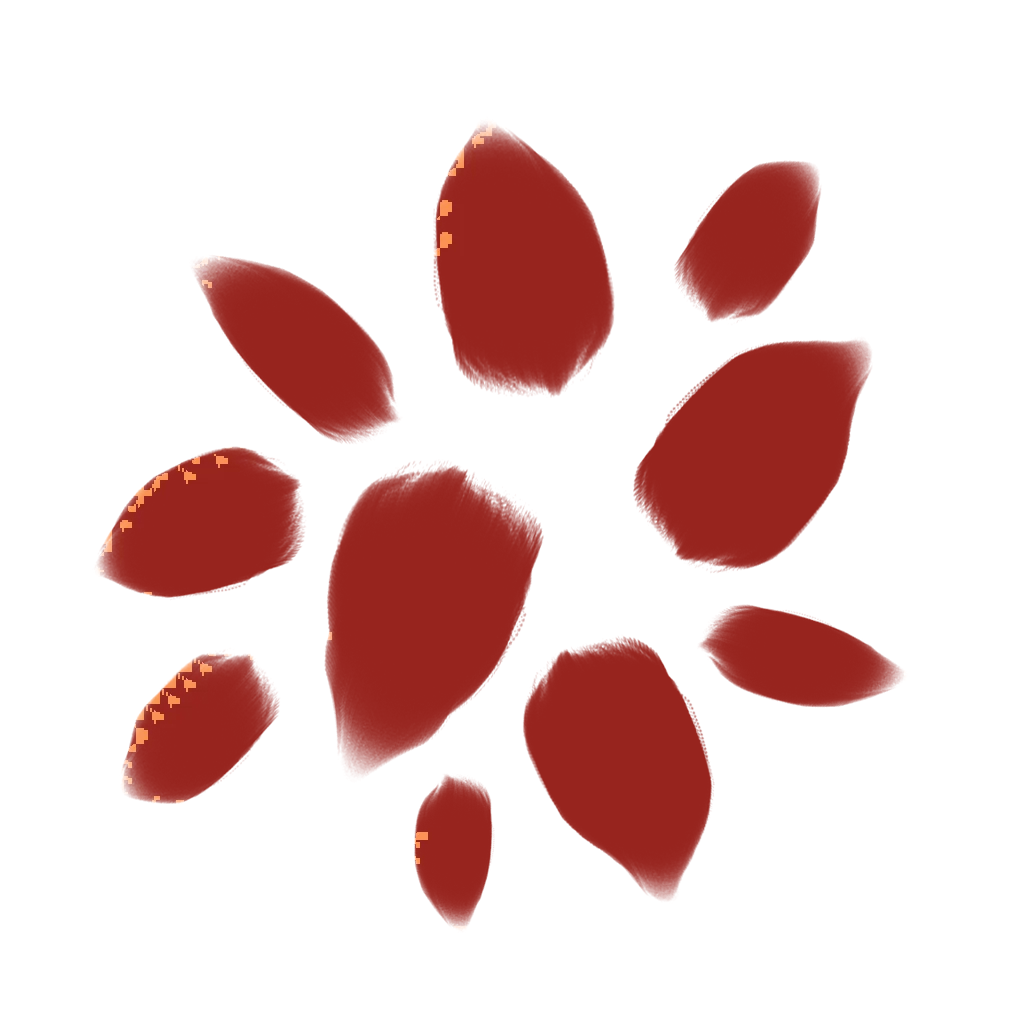
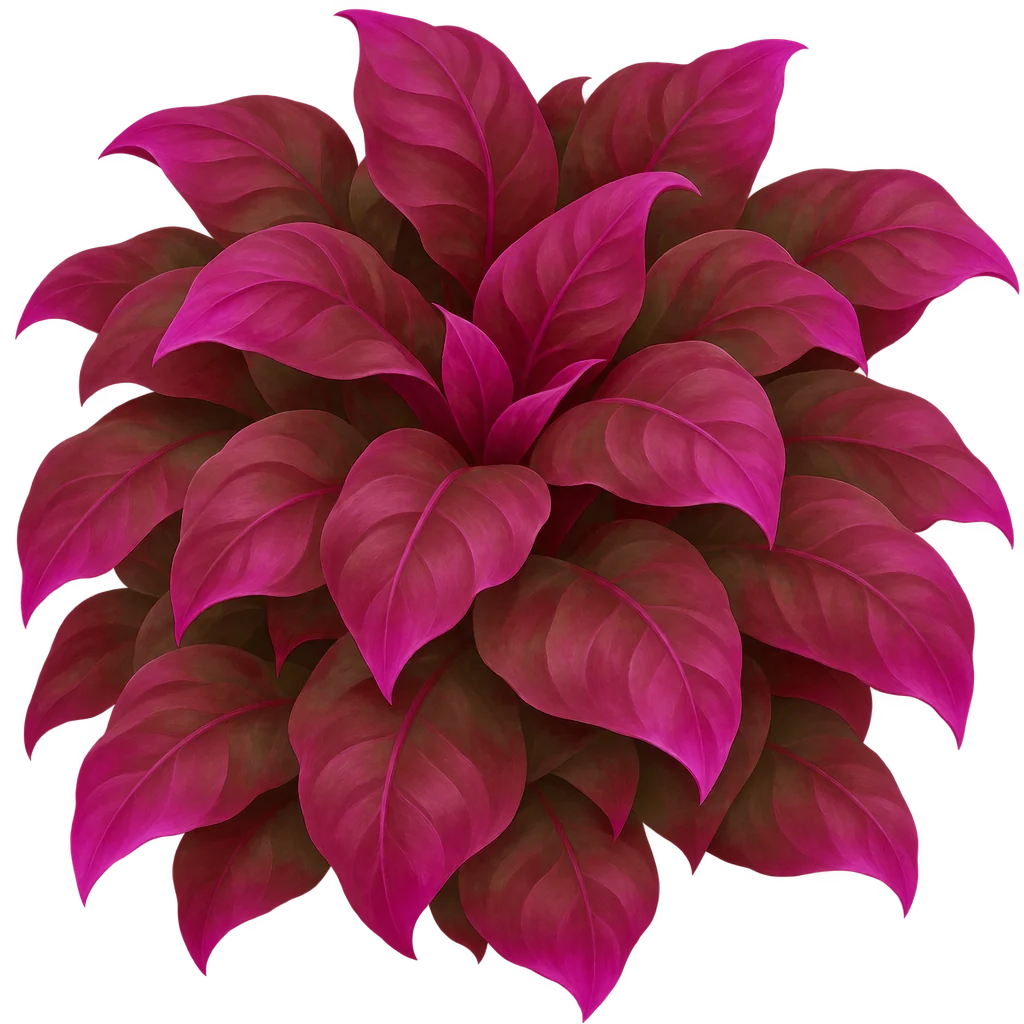
Painted detail on every tree, plant and prop
- Tree canopies: the flat leaf blobs are replaced by painted leaf, blossom,
  small-leaf and conifer clusters, with autumn, red, pink and winter versions.
- Painted leaf veining over the plants, palms and far trees built in code.
- Painted brushwork, grain and cloth over the campsite, merge items, finds,
  pots, stones and petals, projected so nothing needs texture coordinates.

Claude-Session: https://claude.ai/code/session_01KtUL4DZm9aFtm9oRyJ66JM

diff --git a/calm-island/src/world/Props.ts b/calm-island/src/world/Props.ts
@@ -1,4 +1,5 @@
 import * as THREE from 'three';
+import { paintify } from './shared';
 import { mergeGeometries } from 'three/examples/jsm/utils/BufferGeometryUtils.js';
 
 /**
@@ -96,16 +97,26 @@ const veins = (): THREE.CanvasTexture =>
     }
   });
 
+const painted = new Set<string>();
+/** Shared materials are made once: paint each only the first time it is asked for. */
+function paintOnce<T extends THREE.Material>(key: string, m: T, tex: string, scale: number): T {
+  if (!painted.has(key)) {
+    painted.add(key);
+    paintify(m, tex, scale, 0.85);
+  }
+  return m;
+}
+
 export const MAT = {
   /** leaves: matt, softly veined, lit from both sides */
   leaf: (dark = false): THREE.MeshStandardMaterial => std(`leaf${dark}`, { color: dark ? 0x4f9a48 : 0x6dbb55, map: veins(), roughness: 0.72, side: THREE.DoubleSide, vertexColors: true }),
   stem: (): THREE.MeshStandardMaterial => std('stem', { color: 0x5a9a44, roughness: 0.8 }),
-  soil: (): THREE.MeshStandardMaterial => std('soil', { color: 0x5f3f2c, roughness: 1, bumpMap: speckle(), bumpScale: 4 }),
-  stone: (): THREE.MeshStandardMaterial => std('stone', { color: 0xa9a8b2, roughness: 0.78, bumpMap: speckle(), bumpScale: 1.5 }),
-  terracotta: (): THREE.MeshStandardMaterial => std('terracotta', { color: 0xc8703f, roughness: 0.85, bumpMap: speckle(), bumpScale: 0.8 }),
+  soil: (): THREE.MeshStandardMaterial => paintOnce('soil', std('soil', { color: 0x5f3f2c, roughness: 1, bumpMap: speckle(), bumpScale: 4 }), 'soil', 0.9),
+  stone: (): THREE.MeshStandardMaterial => paintOnce('stone', std('stone', { color: 0xbdb6ae, roughness: 0.78, bumpMap: speckle(), bumpScale: 1.5 }), 'rock', 0.7),
+  terracotta: (): THREE.MeshStandardMaterial => paintOnce('terracotta', std('terracotta', { color: 0xc8703f, roughness: 0.85, bumpMap: speckle(), bumpScale: 0.8 }), 'brush', 3),
   brass: (): THREE.MeshStandardMaterial => std('brass', { color: 0xe2b34a, roughness: 0.38, metalness: 0.55 }),
   wicker: (): THREE.MeshStandardMaterial => std('wicker', { color: 0xffffff, map: weave(), bumpMap: weave(), bumpScale: 2.5, roughness: 0.9, side: THREE.DoubleSide }),
-  petal: (color: number): THREE.MeshStandardMaterial => std(`petal${color}`, { color, roughness: 0.6, side: THREE.DoubleSide }),
+  petal: (color: number): THREE.MeshStandardMaterial => paintOnce(`petal${color}`, std(`petal${color}`, { color, roughness: 0.6, side: THREE.DoubleSide }), 'brush', 5),
   /** fruit skins carry their colour per vertex (a gradient from stalk to tip) and glow faintly from within */
   berry: (): THREE.MeshStandardMaterial => std('berry', { color: 0xffffff, vertexColors: true, roughness: 0.42, bumpMap: seeds(), bumpScale: 2.2, emissive: 0xff5a8a, emissiveIntensity: 0.12 }),
   melon: (): THREE.MeshStandardMaterial => std('melon', { color: 0xffffff, vertexColors: true, roughness: 0.5, bumpMap: speckle(), bumpScale: 0.7, emissive: 0x7fdfff, emissiveIntensity: 0.14 }),

diff --git a/calm-island/src/world/shared.ts b/calm-island/src/world/shared.ts
@@ -204,3 +204,51 @@ float fbm2(vec2 p) {
   return vnoise(p) * 0.6 + vnoise(p * 2.13 + 7.0) * 0.3 + vnoise(p * 4.31 + 3.0) * 0.1;
 }
 `;
+
+const paintCache = new Map<string, THREE.Texture>();
+/** One of the hand-painted detail textures (neutral: they add brushwork and grain, not colour). */
+export function paintTexture(name: string): THREE.Texture {
+  let t = paintCache.get(name);
+  if (!t) {
+    t = new THREE.TextureLoader().load(`${import.meta.env.BASE_URL}textures/${name}.webp`);
+    t.colorSpace = THREE.SRGBColorSpace;
+    t.wrapS = t.wrapT = THREE.RepeatWrapping;
+    t.anisotropy = 4;
+    paintCache.set(name, t);
+  }
+  return t;
+}
+
+/**
+ * Lays a painted detail texture over a plainly coloured material, projected from
+ * whichever side each face looks out of, so shapes built in code need no texture
+ * coordinates. `scale` is repeats per unit; `strength` how strongly it shows.
+ */
+export function paintify<T extends THREE.Material>(mat: T, name: string, scale = 1, strength = 0.8): T {
+  const before = mat.onBeforeCompile;
+  mat.onBeforeCompile = (shader, renderer) => {
+    before?.call(mat, shader, renderer);
+    shader.uniforms.uPaintTex = { value: paintTexture(name) };
+    shader.vertexShader = shader.vertexShader
+      .replace('#include <common>', '#include <common>\nvarying vec3 vPaintP;\nvarying vec3 vPaintN;')
+      .replace('#include <begin_vertex>', '#include <begin_vertex>\nvPaintP = position;\nvPaintN = normal;');
+    shader.fragmentShader = shader.fragmentShader
+      .replace('#include <common>', '#include <common>\nuniform sampler2D uPaintTex;\nvarying vec3 vPaintP;\nvarying vec3 vPaintN;')
+      .replace(
+        '#include <color_fragment>',
+        /* glsl */ `#include <color_fragment>
+        {
+          vec3 pw = abs(normalize(vPaintN));
+          pw = pw * pw;
+          pw /= (pw.x + pw.y + pw.z);
+          vec3 pp = vPaintP * ${scale.toFixed(3)};
+          vec3 paintCol = texture2D(uPaintTex, pp.zy).rgb * pw.x + texture2D(uPaintTex, pp.xz).rgb * pw.y + texture2D(uPaintTex, pp.xy).rgb * pw.z;
+          diffuseColor.rgb *= mix(vec3(1.0), paintCol * 1.24, ${strength.toFixed(2)});
+        }`,
+      );
+  };
+  // (materials that differ only in which texture they carry can share a program, but not with unpainted ones)
+  const key = mat.customProgramCacheKey?.bind(mat);
+  mat.customProgramCacheKey = () => `${key ? key() : ''}|paint${scale}|${strength}`;
+  return mat;
+}

diff --git a/calm-island/src/merge/items.ts b/calm-island/src/merge/items.ts
@@ -1,4 +1,5 @@
 import * as THREE from 'three';
+import { paintify } from '../world/shared';
 
 /**
  * The things you find and merge. Four collections, four steps each; three of
@@ -26,7 +27,9 @@ export const itemName = (code: number): string => CHAINS[code >> 2].steps[code &
 export const itemPlural = (code: number): string => (itemName(code) === 'Wood' ? 'Wood' : `${itemName(code)}s`);
 
 const std = (color: number, roughness = 0.6, extra: THREE.MeshStandardMaterialParameters = {}): THREE.MeshStandardMaterial =>
-  new THREE.MeshStandardMaterial({ color, roughness, ...extra });
+  // (every plain colour gets painted brushwork over it; wood browns get grain)
+  paintify(new THREE.MeshStandardMaterial({ color, roughness, ...extra }), WOODS.has(color) ? 'wood' : 'brush', WOODS.has(color) ? 1.4 : 2.2, WOODS.has(color) ? 0.9 : 0.75);
+const WOODS = new Set([0x8a5a36, 0x74492c, 0x6b4a2e, 0x7a4a26, 0x6a4a7a, 0xe9c48d, 0xa9743f]);
 const glowing = (color: number, emissive: number, intensity = 1.2, roughness = 0.35): THREE.MeshStandardMaterial =>
   new THREE.MeshStandardMaterial({ color, roughness, emissive, emissiveIntensity: intensity });
 const lit = (color: number): THREE.MeshBasicMaterial => new THREE.MeshBasicMaterial({ color, fog: false });
@@ -184,7 +187,7 @@ export function campfire(size = 1): THREE.Group {
 /** A canvas A-frame tent, open to +z, sitting on y = 0. */
 export function tent(w: number, h: number, d: number, detail: boolean): THREE.Group {
   const g = new THREE.Group();
-  const cloth = std(0xf6e7c8, 0.85, { side: THREE.DoubleSide });
+  const cloth = paintify(new THREE.MeshStandardMaterial({ color: 0xf6e7c8, roughness: 0.85, side: THREE.DoubleSide }), 'cloth', 0.45, 0.9);
   const trim = std(0xe9b872, 0.8, { side: THREE.DoubleSide });
   const pole = std(0x8a5a36, 0.85);
   const slope = Math.hypot(w / 2, h);

diff --git a/calm-island/src/world/Vegetation.ts b/calm-island/src/world/Vegetation.ts
@@ -7,7 +7,7 @@ import { SEASON } from './season';
 import * as plants from './plantGeometry';
 import { HOME_SPOT } from './Home';
 import { seasonalLeaves, type NatureModels } from './NatureModels';
-import { globalUniforms } from './shared';
+import { globalUniforms, paintify } from './shared';
 
 interface Kind {
   hi: THREE.BufferGeometry;
@@ -105,7 +105,10 @@ function mossy<T extends THREE.Material>(mat: T): T {
 /** Lambert material with vertex colours and a gentle wind sway above `base`. */
 function foliageMaterial(sway: number, base: number, doubleSide = false, leafy = false, bloom = false, map: THREE.Texture | null = null, crownY = 0): THREE.MeshLambertMaterial {
   const mat = new THREE.MeshLambertMaterial({ vertexColors: !map, map, alphaTest: map ? 0.32 : 0, side: doubleSide ? THREE.DoubleSide : THREE.FrontSide });
-  mat.onBeforeCompile = (shader) => {
+  if (!map) paintify(mat, 'leaf', bloom ? 3.2 : 1.1, bloom ? 0.55 : 0.9);
+  const painted = mat.onBeforeCompile;
+  mat.onBeforeCompile = (shader, renderer) => {
+    painted.call(mat, shader, renderer);
     shader.uniforms.uTime = globalUniforms.uTime;
     shader.uniforms.uPlayer = globalUniforms.uPlayer;
     shader.uniforms.uSunThrough = globalUniforms.uSunDir;

diff --git a/calm-island/src/world/Campsite.ts b/calm-island/src/world/Campsite.ts
@@ -5,6 +5,7 @@ import type { Colliders } from './Colliders';
 import type { Island } from './islandMap';
 import { stone } from './Props';
 import { glowDot } from './Trail';
+import { paintify } from './shared';
 
 const REVEAL = 2.6;
 
@@ -105,7 +106,7 @@ export class Campsite {
       s.add(o);
       return o;
     };
-    const mat = (color: number, roughness = 0.8): THREE.MeshStandardMaterial => new THREE.MeshStandardMaterial({ color, roughness });
+    const mat = (color: number, roughness = 0.8): THREE.MeshStandardMaterial => paintify(new THREE.MeshStandardMaterial({ color, roughness }), color === 0x8a5a36 || color === 0xe6c08a ? 'wood' : 'cloth', color === 0x8a5a36 || color === 0xe6c08a ? 0.9 : 1.6, 0.9);
     const mesh = (geo: THREE.BufferGeometry, m: THREE.Material): THREE.Mesh => {
       const o = new THREE.Mesh(geo, m);
       o.castShadow = o.receiveShadow = true;
